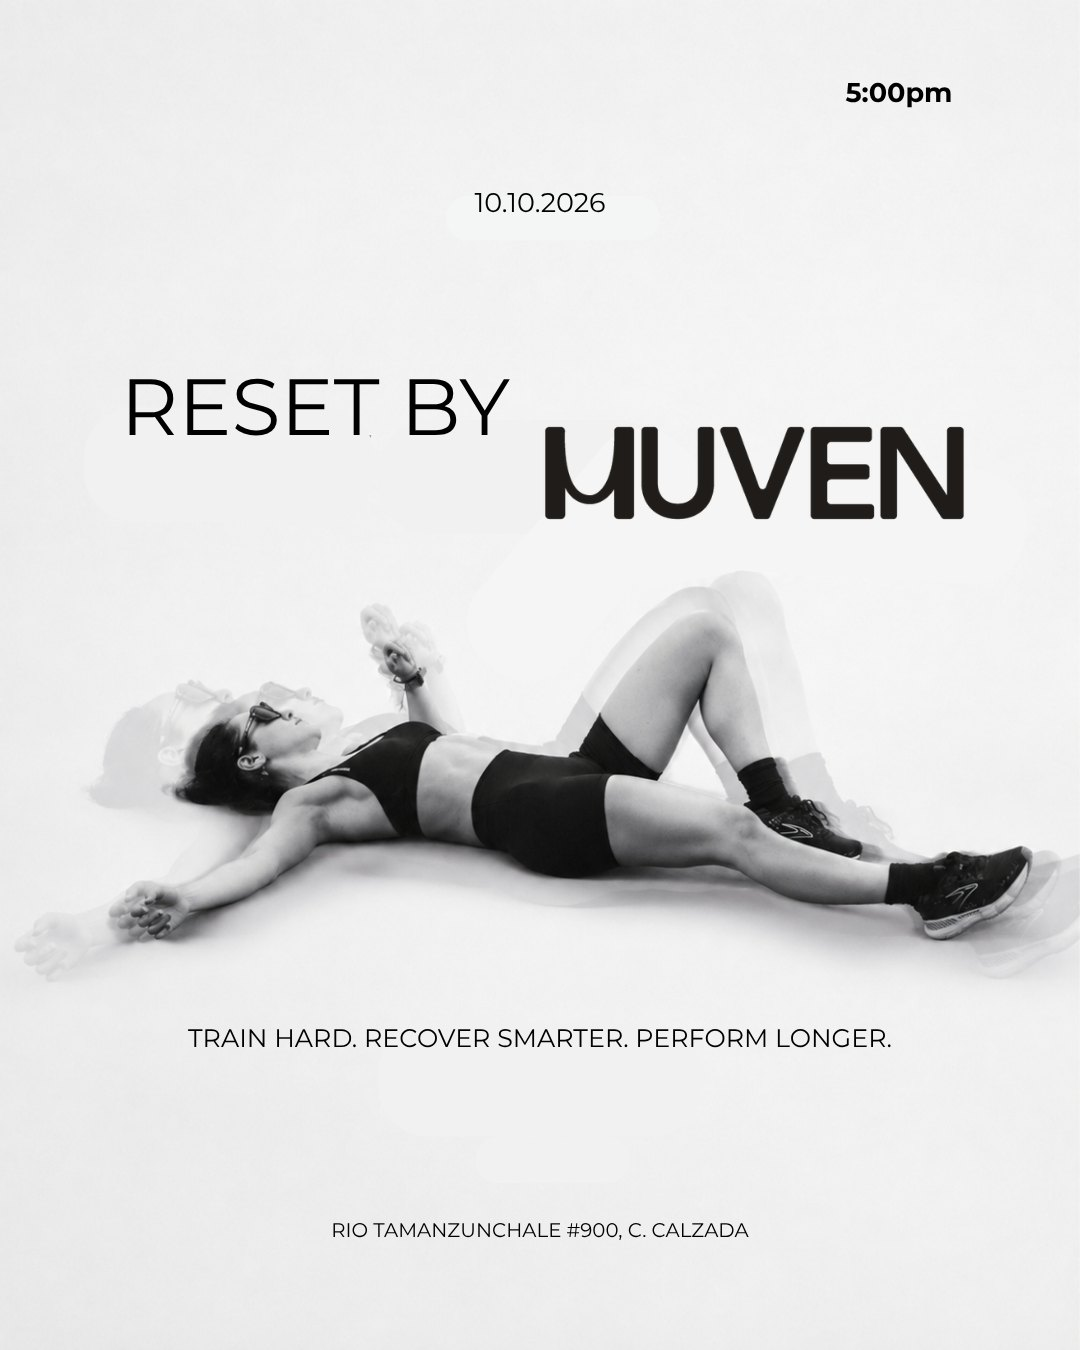
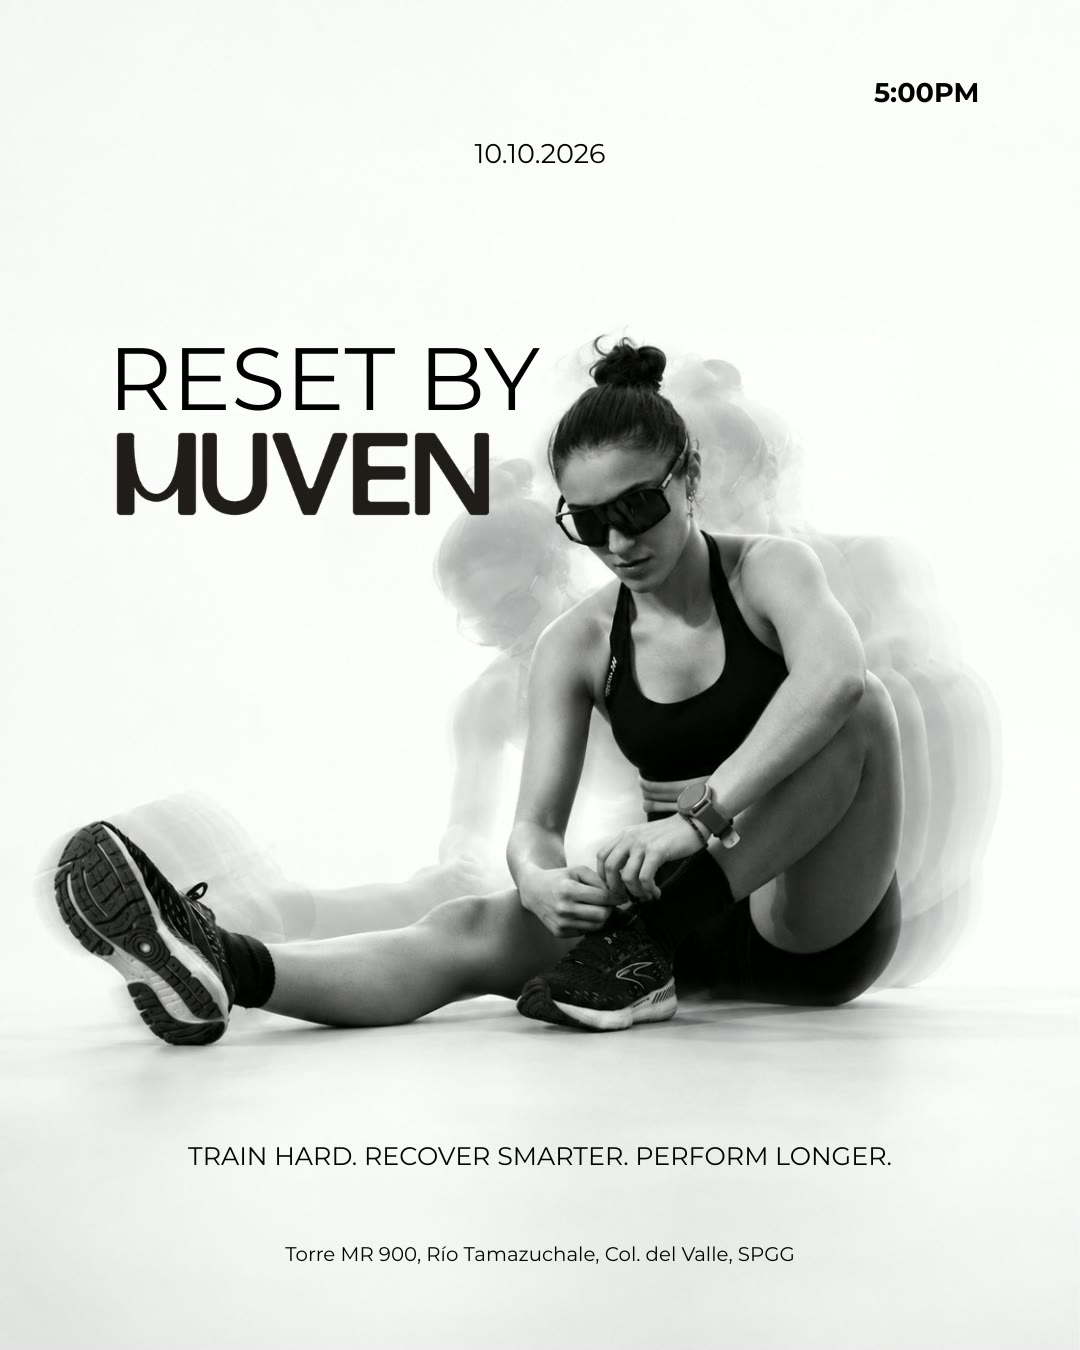
feat(evento): replace the Reset flyer with the new design
- Swap reset-flyer.jpg for the updated flyer (cache-busted with ?v=2 on the page image and og:image) and update its alt text

diff --git a/evento.html b/evento.html
@@ -9,7 +9,7 @@
 <meta property="og:title" content="Reset by MUVEN · 10.10.2026">
 <meta property="og:description" content="Train hard. Recover smarter. Perform longer. Sábado 10 de octubre, 5:00 pm, Torre MR900. Entrada gratis.">
 <meta property="og:url" content="https://www.muven.shop/evento.html">
-<meta property="og:image" content="https://www.muven.shop/assets/photos/reset-flyer.jpg">
+<meta property="og:image" content="https://www.muven.shop/assets/photos/reset-flyer.jpg?v=2">
 <meta name="twitter:card" content="summary_large_image">
 <title>Reset by MUVEN</title>
 <link rel="icon" href="favicon.svg" type="image/svg+xml">
@@ -512,7 +512,7 @@
   <div class="container">
     <div class="grid">
       <figure class="reveal">
-        <img id="flyerImg" src="assets/photos/reset-flyer.jpg" alt="Flyer de Reset by MUVEN: 10.10.2026, 5:00 pm, Río Tamazunchale 900. Train hard. Recover smarter. Perform longer." width="1080" height="1350" loading="lazy">
+        <img id="flyerImg" src="assets/photos/reset-flyer.jpg?v=2" alt="Flyer de Reset by MUVEN: 10.10.2026, 5:00 pm, Torre MR 900, Río Tamazunchale, Col. del Valle, SPGG. Train hard. Recover smarter. Perform longer." width="1080" height="1350" loading="lazy">
       </figure>
       <div>
         <div class="micro reveal red" style="margin-bottom: 28px;">El flyer</div>
